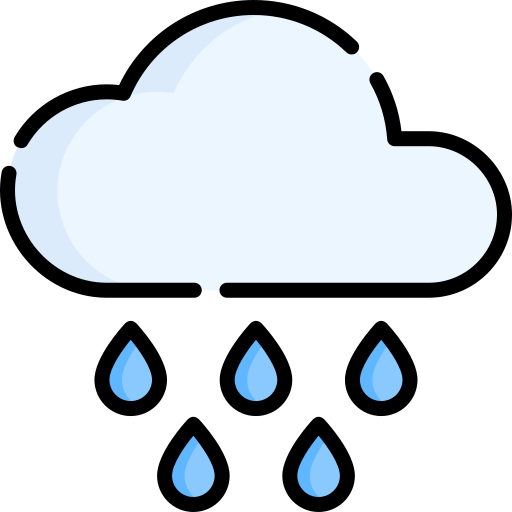
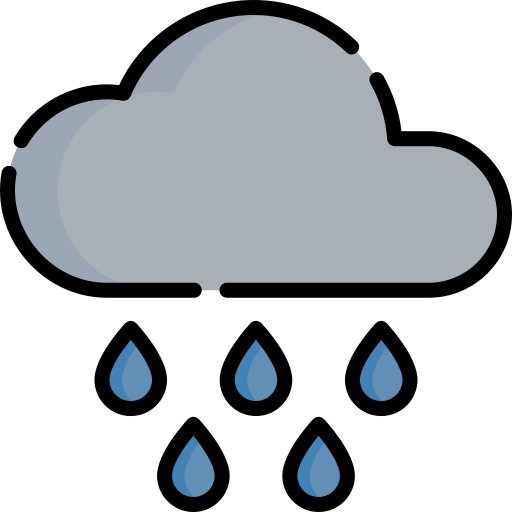
fghhjk

diff --git a/International/initialization.py b/International/initialization.py
@@ -15,24 +15,39 @@ config = {
     
     'images' : {
         # Name: (Name, File, (x, y), (x, y), True/False, (r,g,b)) <- (Name, Filename, Position, Size, Outside, Colour)
+        # Main Map
         "Map" : ("Map", "International/Images/Map.png", (0, 0), (800, 900), False, (0, 0, 0)),
+        
+        # 6 Rides Affected from Weather
         "Lazy River" : ("Lazy River", "International/Images/Lazy River.png", (454, 647), (308, 217), True, (159, 197, 232)),
         "Nebula Spinner" : ("Nebula Spinner", "International/Images/Nebula Spinner.png", (459, 8), (152, 152), True, (249, 203, 156)),
+        "Pixel Arcade" : ("Pixel Arcade", "International/Images/Pixel Arcade.png", (25, 532), (146, 160), True, (0, 255, 255)),
         "Rocket Slingshot" : ("Rocket Slingshot", "International/Images/Rocket Slingshot.png", (189, 8), (150, 163), True, (255, 229, 153)),
-        "Pixel Arcade" : ("Pixel Arcade", "International/Images/Pixel Arcade.png", (25, 532), (146, 160), False, (0, 255, 255)),
         "Splashing Mountain" : ("Splashing Mountain", "International/Images/Splashing Mountain.png", (478, 180), (308, 250), True, (147, 196, 125)),
         "Titan Coaster" : ("Titan Coaster", "International/Images/Titan Coaster.png", (17, 275), (312, 159), True, (139, 198, 252)),
+
+        # Unaffected places
         "Hydration Station" : ("Hydration Station", "International/Images/Hydration Station.png", (450, 524), (116, 117), False, (164, 194, 244)),
         "Pixel Popcorn" : ("Pixel Popcorn", "International/Images/Pixel Popcorn.png", (253, 180), (88, 89), False, (230, 145, 56)),
         "Quantum Cafe" : ("Quantum Cafe", "International/Images/Quantum Cafe.png", (176, 673), (163, 163), False, (142, 124, 195)),
         "The Sugar Shack" : ("The Sugar Shack", "International/Images/The Sugar Shack.png", (244, 523), (107, 103), False, (233, 120, 93)),
-        
+
+        # Icons for statistics
         "Low Temp" : ("Low Temp", "International/Images/Low Temp.png", (11, 80), (57, 73), False, None),
         "Moderate Temp" : ("Moderate Temp", "International/Images/Moderate Temp.png", (0, 82), (69, 69), False, None),
+        "High Temp" : ("High Temp", "International/Images/Heavy Temp.png", (15, 82), (69, 69), False, None),
+
+        "Low Wind" : ("Low Wind", "International/Images/Low Wind.png", (13, 157), (58, 58), False, None),
+        "Moderate Wind" : ("Moderate Wind", "International/Images/Moderate Wind.png", (17, 157), (54, 54), False, None),
+        "Heavy Wind" : ("Heavy Wind", "International/Images/Heavy Wind.png", (16, 160), (50, 50), False, None),
+
+        "Low Rain" : ("Low Rain", "International/Images/Low Rain.png", (16, 216), (50, 50), False, None),
+        "Moderate Rain" : ("Moderate Rain", "International/Images/Moderate Rain.png", (16, 216), (50, 50), False, None),
+        "Heavy Rain" : ("Heavy Rain", "International/Images/Heavy Rain.png", (12, 211), (57, 57), False, None),
 
         "Morning" : ("Morning", "International/Images/Morning.png", (15, 17), (54, 54), False, None),
         "Afternoon" : ("Afternoon", "International/Images/Afternoon.png", (13, 15), (58, 60), False, None),
-        "Evening" : ("Evening", "International/Images/Evening.png", (5, 8), (69, 67), False, None),
+        "Evening" : ("Evening", "International/Images/Evening.png", (5, 8), (69, 67), False, None)
         },
 
     'simulation' : {

diff --git a/International/main.py b/International/main.py
@@ -6,8 +6,10 @@ from multiprocessing import Queue, Process
 from firstWindow import ParkWindow
 from secondWindow import RideWindow
 
-# Import the config with all essential variables
+# Import essential variables
 from initialization import config
+from dataLogs import random_log
+given_log = None
 
 # Function to start the main window for theme park using theme_park process
 def start_park_window(caption, size, pos, queue_in, queue_out, images):
@@ -15,8 +17,8 @@ def start_park_window(caption, size, pos, queue_in, queue_out, images):
     park_window.run()
 
 # Function to start the second window for station information using ride_park process
-def start_ride_window(caption, size, pos, queue_in, queue_out):
-    ride_window = RideWindow(caption, size, pos, queue_in, queue_out)
+def start_ride_window(caption, size, pos, queue_in, queue_out, random_data, given_data):
+    ride_window = RideWindow(caption, size, pos, queue_in, queue_out, random_data, given_data)
     ride_window.run()
 
 # Run program if this file is being run directly
@@ -26,7 +28,7 @@ if __name__ == "__main__":
     main_to_park = Queue()
     park_to_main = Queue()
 
-    # Create a dedicated kwargs dictionary for the park process
+    # Create a dedicated kwargs dictionary for the first window process
     park_kwargs = {
         **config['parkWindow'],
         'queue_in': main_to_park,
@@ -38,11 +40,13 @@ if __name__ == "__main__":
     main_to_ride = Queue()
     ride_to_main = Queue()
     
-    # Create a dedicated kwargs dictionary for the theme park process
+    # Create a dedicated kwargs dictionary for the second windo process
     ride_kwargs = {
         **config['rideWindow'],
         'queue_in': main_to_ride,
-        'queue_out': ride_to_main
+        'queue_out': ride_to_main,
+        'random_logs' : random_log,
+        'logs' : given_log
     }
 
     # Create Main Window with communcation_queue

diff --git a/International/secondWindow.py b/International/secondWindow.py
@@ -4,12 +4,14 @@ from os import environ
 from initialization import config
 
 class RideWindow:
-    def __init__(self, caption, size, pos, queue_in, queue_out):
+    def __init__(self, caption, size, pos, queue_in, queue_out, random_data, given_data):
         self.caption = caption # Title of the window
         self.size = size # Size of the window
         self.pos = pos # Position of the window on the screen
         self.queue_in = queue_in # The pipeline that recieves messages
         self.queue_out = queue_out # The pipeline that sends out messages
+        self.random_data = random_data
+        self.given_data = given_data
 
         # Initialize variables for the window
         self.running = True
@@ -38,7 +40,7 @@ class RideWindow:
         self.alert_stations = [] # List of stations that have alerts
         
         # Visual variable (rectangles)
-            # Background colour of the window
+        # Background colour of the window
         self.background_colour = (0, 0, 0)
 
         # Audio initialization - fix sound effect
@@ -66,8 +68,6 @@ class RideWindow:
         # Draw the current hour
         self.draw_text(f"Current Hour: {self.curr_hour}", (255, 255, 255), (self.size[0] // 2, self.size[1] // 4))
 
-        
-
     def events(self): # Checks if user wants to quit pygame
 
         for event in pygame.event.get(): # Checks all pygame events
@@ -76,7 +76,6 @@ class RideWindow:
 
                 self.queue_out.put("QUIT") # Send a message to quit the program
                 self.running = False # Stop running the window loop to close the window
-
 
     def update(self): # Updates the current stats of the simulation
         

diff --git a/International/rideClass.py b/International/rideClass.py
@@ -10,6 +10,11 @@ class Rides:
         self.width, self.height = scale
         self.outside = outside
         self.colour = colour
+        
+        if self.colour:
+            self.icon = False
+        else:
+            self.icon = True
 
         # Check if current image is the map
         if self.pos == (0, 0):
@@ -22,6 +27,7 @@ class Rides:
         # Initialize the image using initialized variables
         try:
             self.image = pygame.image.load(file).convert_alpha()
+            print(self.name)
 
             self.image = pygame.transform.scale(self.image, scale) # Change the scale of the image
 

diff --git a/International/firstWindow.py b/International/firstWindow.py
@@ -43,6 +43,8 @@ class ParkWindow:
         self.prev_hour = self.SIMULATIONHOUR
         self.queue_out.put(self.prev_hour)
 
+        # Additional Variables
+
         # Initialize Images
         for ride in self.images:
             self.images[ride] = Rides(*self.images[ride])